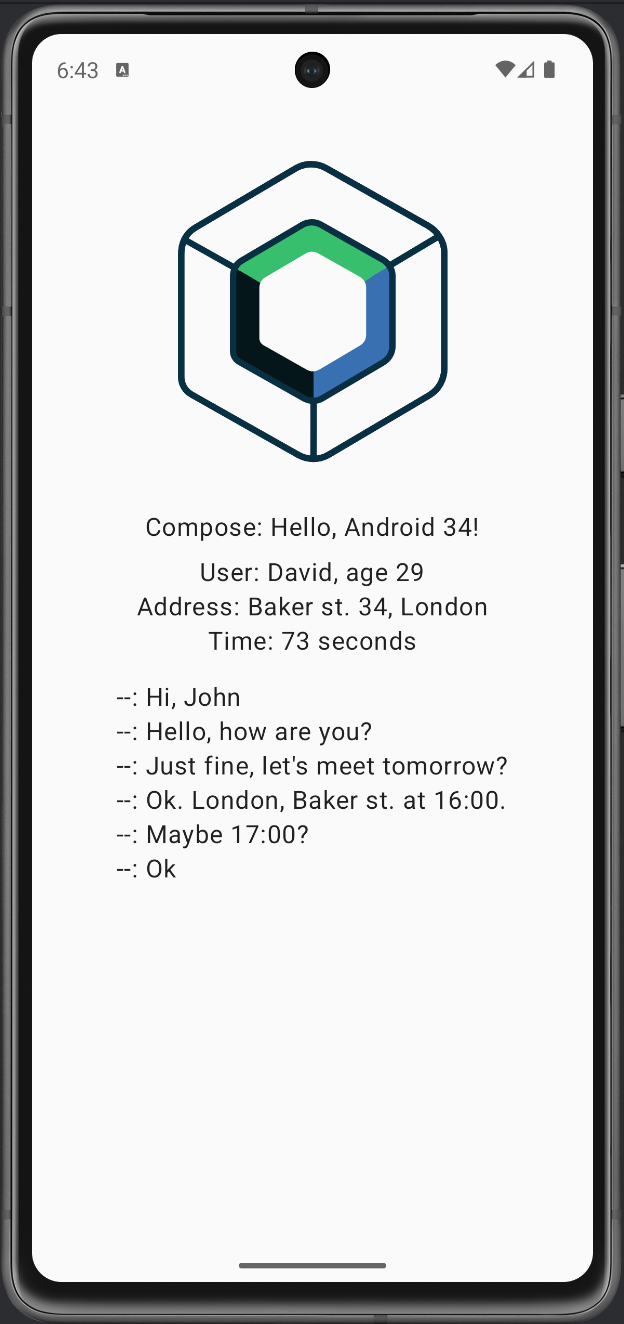
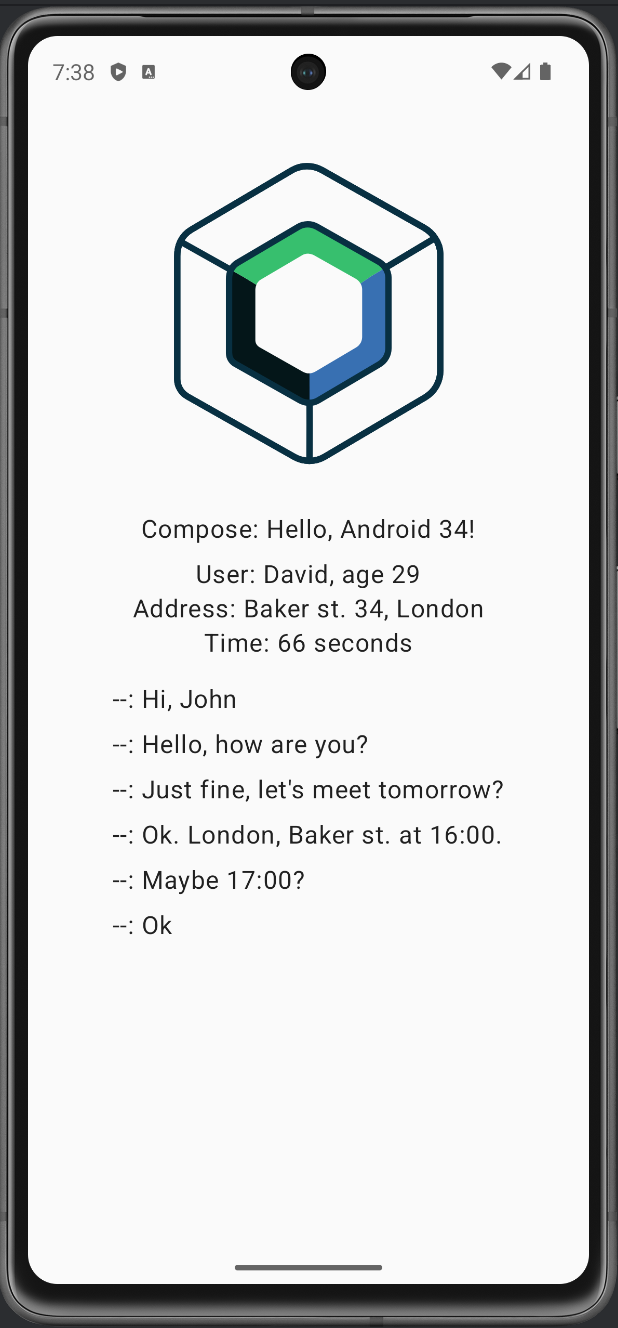
Add little spacing

diff --git a/composeApp/src/androidMain/kotlin/org/example/project/App.kt b/composeApp/src/androidMain/kotlin/org/example/project/App.kt
@@ -85,10 +85,12 @@ fun App(modifier: Modifier) {
             // Print timer
             Text("Time: $timerTick seconds")
 
+            // Observe flow on UI as chat messages
             Spacer(modifier = Modifier.height(16.dp))
             Column {
                 chatList.forEach {
                     Text(text = "--: $it")
+                    Spacer(modifier = Modifier.height(8.dp))
                 }
             }
         }
